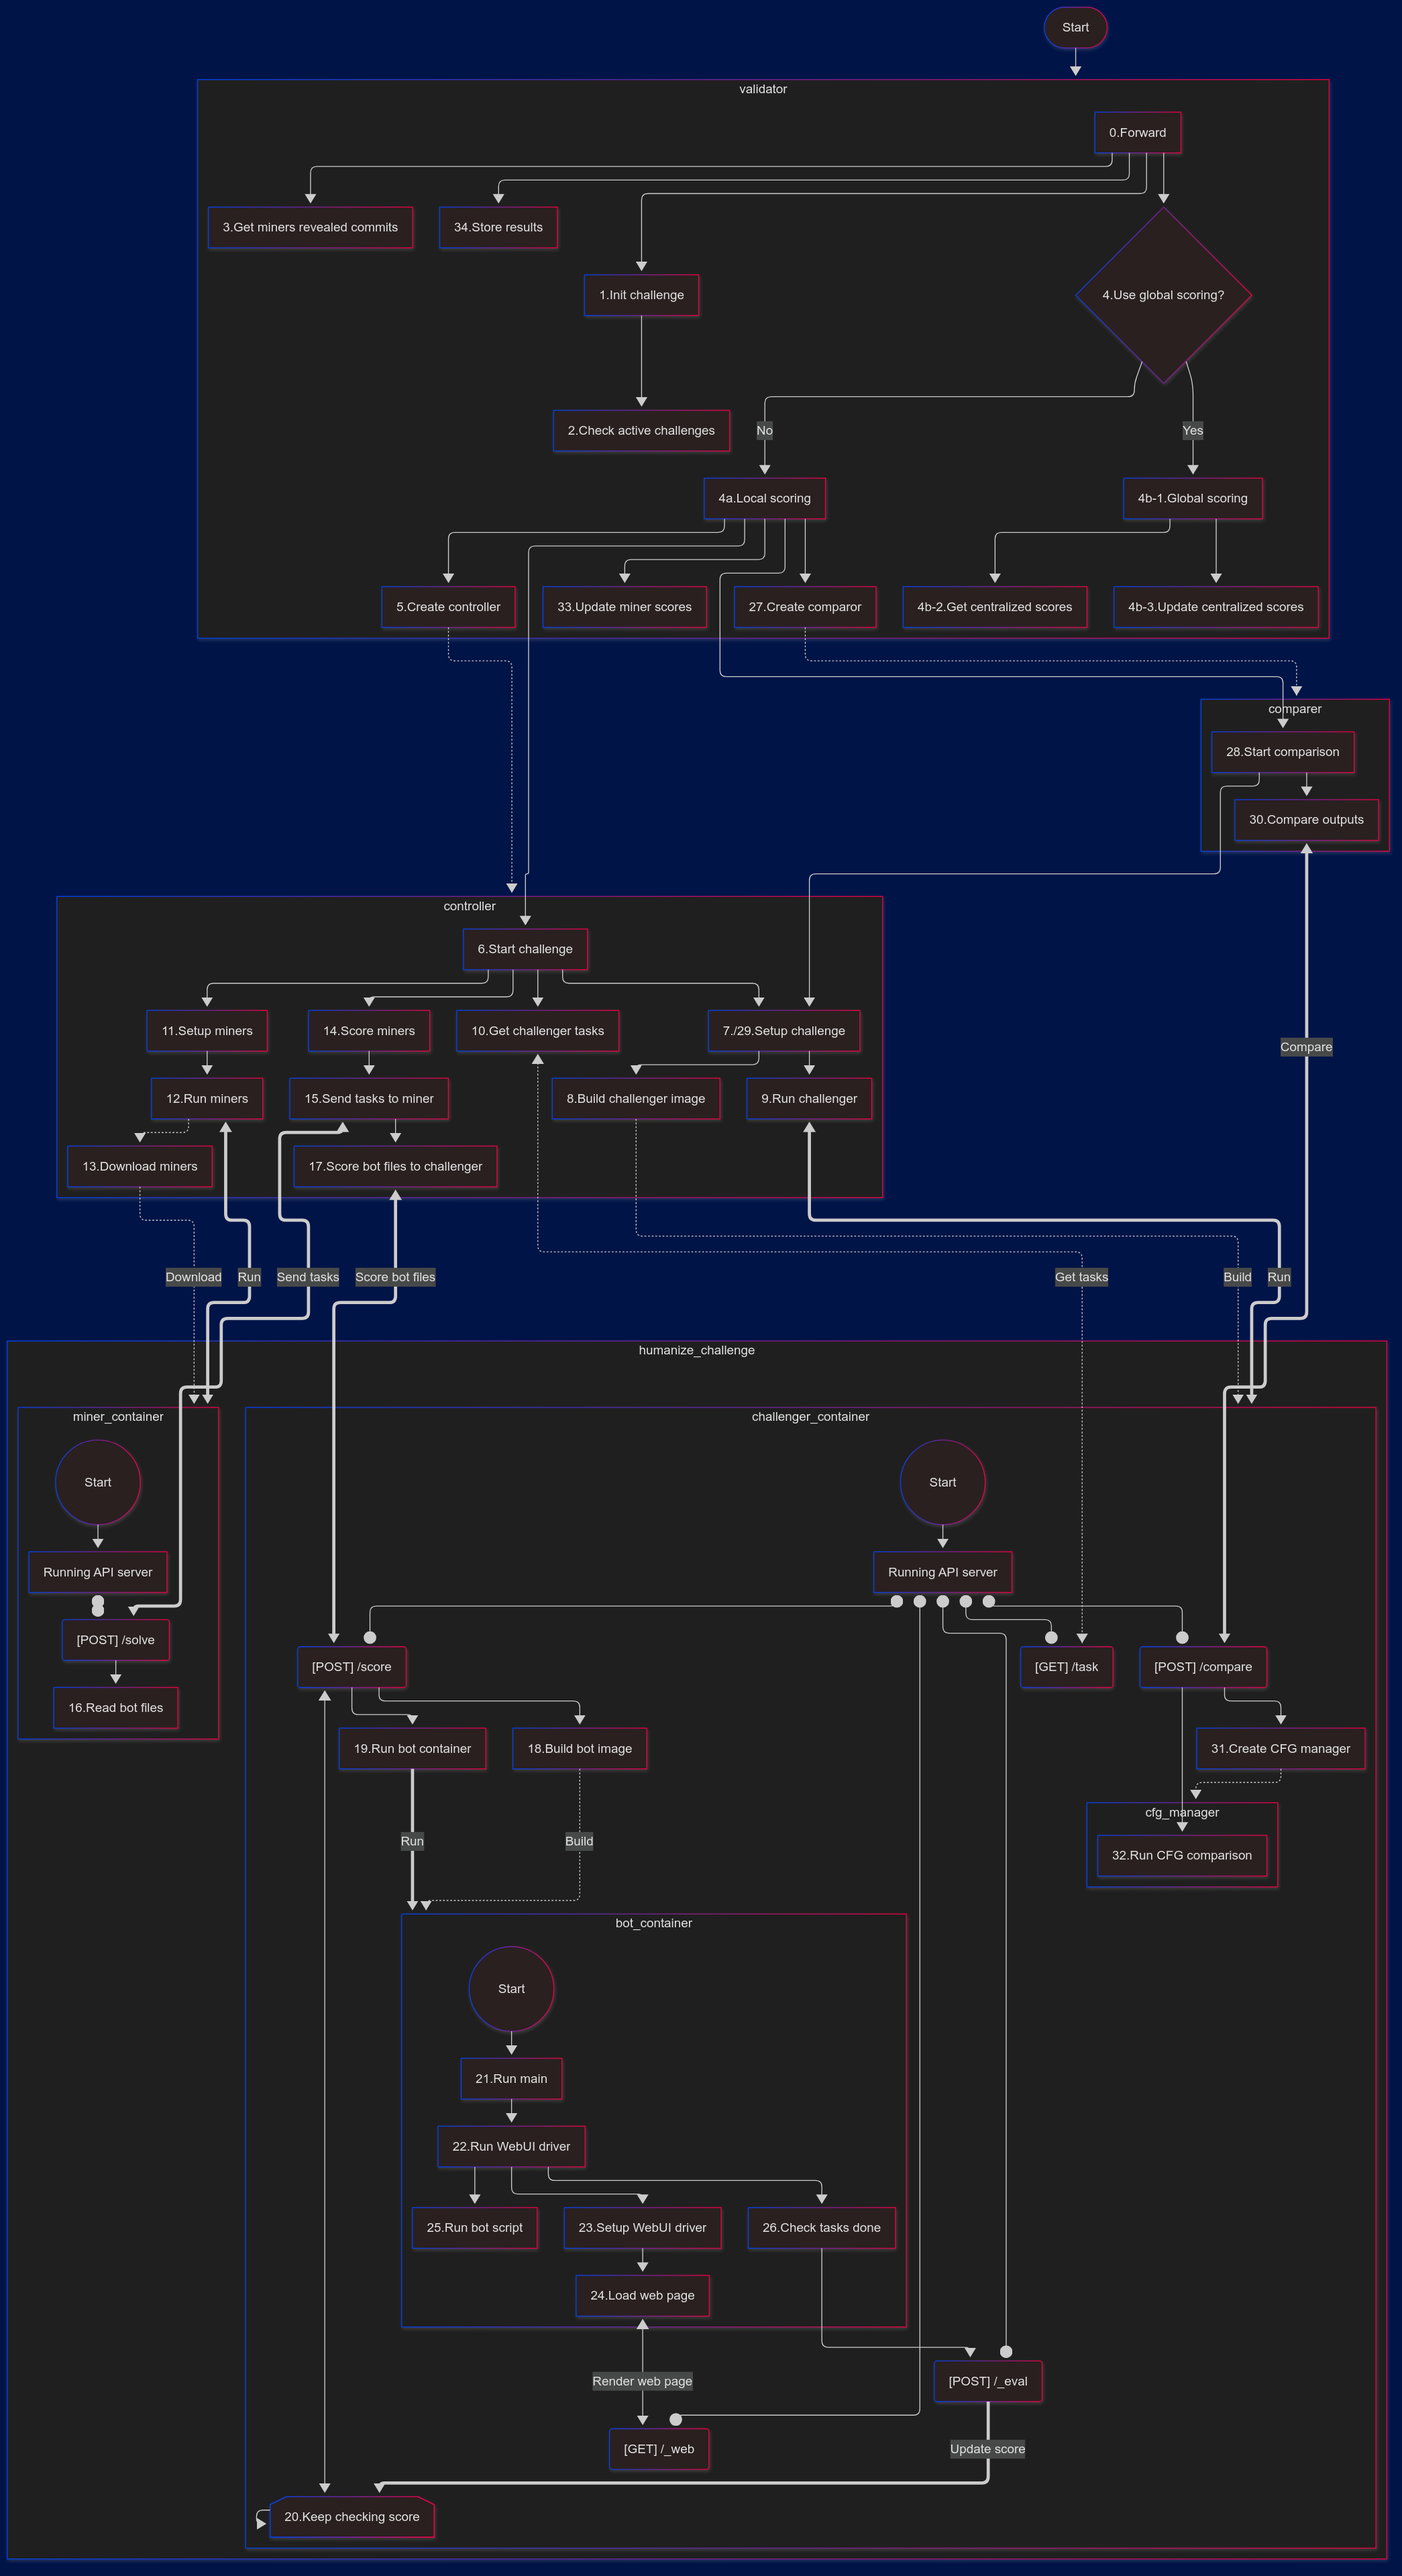
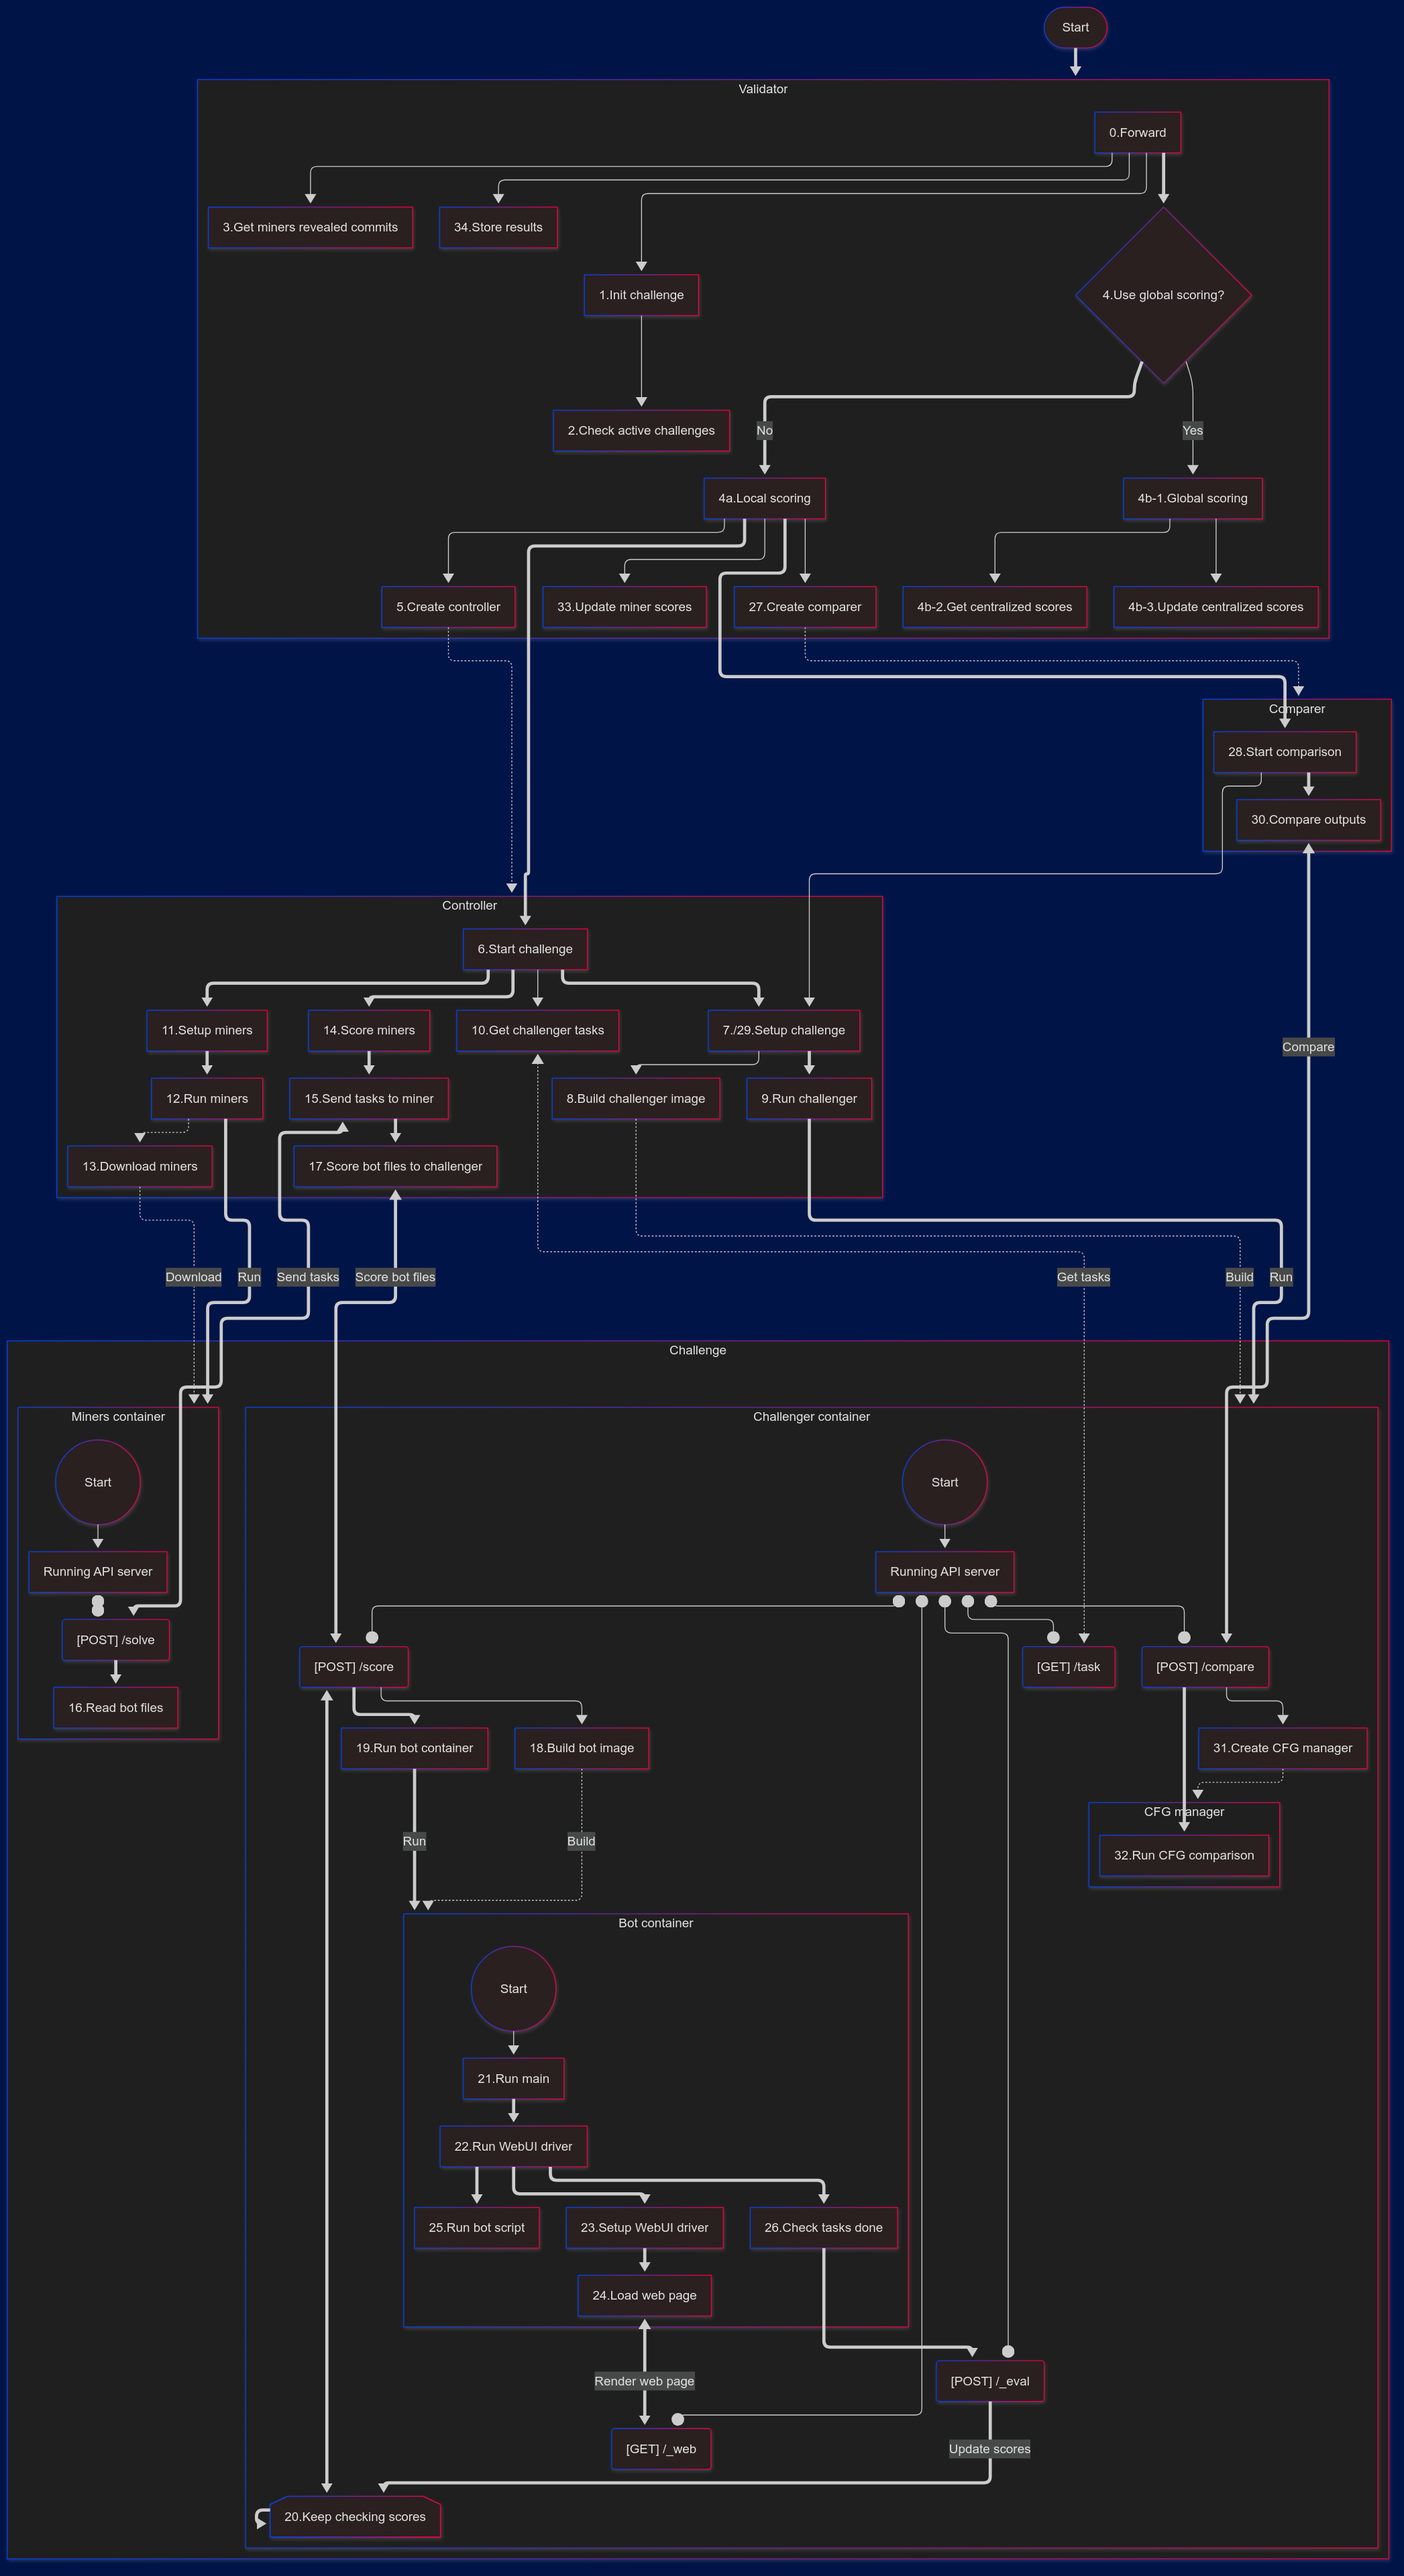
docs: update diagrams and documentation for humanize behavior challenge

diff --git a/docs/diagrams/humanize_behaviour/general.md b/docs/diagrams/humanize_behaviour/general.md
@@ -2,7 +2,7 @@
 
 ```mermaid
 flowchart TD
- subgraph validator["validator"]
+ subgraph validator["Validator"]
         vl_forward["0.Forward"]
         vl_init_challenge["1.Init challenge"]
         vl_check_active_challenges["2.Check active challenges"]
@@ -13,11 +13,11 @@ flowchart TD
         vl_get_centrailized_scores["4b-2.Get centralized scores"]
         vl_update_centrailized_scores["4b-3.Update centralized scores"]
         vl_create_controller["5.Create controller"]
-        vl_create_comparor["27.Create comparor"]
+        vl_create_comparer["27.Create comparer"]
         vl_update_miner_scores["33.Update miner scores"]
         vl_store_miner_results["34.Store results"]
   end
- subgraph controller["controller"]
+ subgraph controller["Controller"]
         start_challenge["6.Start challenge"]
         ct_setup_challenge["7./29.Setup challenge"]
         ct_build_challenger["8.Build challenger image"]
@@ -30,23 +30,23 @@ flowchart TD
         ct_send_tasks_mi["15.Send tasks to miner"]
         ct_send_bot_files["17.Score bot files to challenger"]
   end
- subgraph comparer["comparer"]
+ subgraph comparer["Comparer"]
         start_comparison["28.Start comparison"]
         cm_compare_outputs["30.Compare outputs"]
   end
- subgraph cfg_manager["cfg_manager"]
+ subgraph cfg_manager["CFG manager"]
         run_cfg_comparison["32.Run CFG comparison"]
   end
- subgraph bot_container["bot_container"]
+ subgraph bot_container["Bot container"]
         start_bot_container(("Start"))
         bt_run_main["21.Run main"]
         bot_run_webui_driver["22.Run WebUI driver"]
         bot_setup_driver["23.Setup WebUI driver"]
         bot_load_web_page["24.Load web page"]
-        bot_run_sciprt["25.Run bot script"]
+        bot_run_script["25.Run bot script"]
         bot_check_tasks_done["26.Check tasks done"]
   end
- subgraph challenger_container["challenger_container"]
+ subgraph challenger_container["Challenger container"]
         start_challenger(("Start"))
         ch_server["Running API server"]
         ch_task_endpoint["[GET] /task"]
@@ -56,43 +56,48 @@ flowchart TD
         ch_compare_endpoint["[POST] /compare"]
         ch_build_bot_image["18.Build bot image"]
         ch_run_bot_container["19.Run bot container"]
-        ch_checking_score["20.Keep checking score"]
+        ch_checking_scores["20.Keep checking scores"]
         ch_create_cfg_manager["31.Create CFG manager"]
         cfg_manager
         bot_container
   end
- subgraph miner_container["miner_container"]
+ subgraph miners_container["Miners container"]
         start_miner_container(("Start"))
         mi_server["Running API server"]
         mi_solve_endpoint["[POST] /solve"]
         mi_read_bot_files["16.Read bot files"]
   end
- subgraph humanize_challenge["humanize_challenge"]
+ subgraph hb_challenge["Challenge"]
         challenger_container
-        miner_container
+        miners_container
   end
-    start(["Start"]) --> validator
-    vl_forward --> vl_init_challenge & vl_get_miners_revealed_commits & vl_use_global_scoring & vl_store_miner_results
+    start(["Start"]) ==> validator
+    vl_forward --> vl_init_challenge & vl_get_miners_revealed_commits & vl_store_miner_results
+    vl_forward ==> vl_use_global_scoring
     vl_init_challenge --> vl_check_active_challenges
     vl_use_global_scoring -- Yes --> vl_global_scoring
     vl_global_scoring --> vl_get_centrailized_scores & vl_update_centrailized_scores
-    vl_use_global_scoring -- No --> vl_local_scoring
+    vl_use_global_scoring == No ==> vl_local_scoring
     vl_local_scoring ---> vl_create_controller
     vl_create_controller -.-> controller
-    vl_local_scoring --> start_challenge & vl_create_comparor & start_comparison & vl_update_miner_scores
-    vl_create_comparor -.-> comparer
-    start_comparison --> ct_setup_challenge & cm_compare_outputs
-    start_challenge --> ct_setup_challenge & ct_get_ch_tasks
-    ct_setup_challenge --> ct_build_challenger & ct_run_challenger
-    start_challenge ----> ct_setup_miners & ct_score_miners
-    ct_setup_miners --> ct_run_miners
+    vl_local_scoring ==> start_challenge & start_comparison
+    vl_local_scoring --> vl_create_comparer & vl_update_miner_scores
+    vl_create_comparer -.-> comparer
+    start_comparison --> ct_setup_challenge
+    start_comparison ==> cm_compare_outputs
+    start_challenge ==> ct_setup_challenge
+    start_challenge --> ct_get_ch_tasks
+    ct_setup_challenge --> ct_build_challenger
+    ct_setup_challenge ==> ct_run_challenger
+    start_challenge ====> ct_setup_miners & ct_score_miners
+    ct_setup_miners ==> ct_run_miners
     ct_run_miners -.-> ct_download_miners
-    ct_score_miners --> ct_send_tasks_mi
-    ct_send_tasks_mi --> ct_send_bot_files
+    ct_score_miners ==> ct_send_tasks_mi
+    ct_send_tasks_mi ==> ct_send_bot_files
     ct_build_challenger -. Build .-> challenger_container
-    ct_run_challenger <== Run ==> challenger_container
-    ct_download_miners -. Download .-> miner_container
-    ct_run_miners <== Run =======> miner_container
+    ct_run_challenger == Run ==> challenger_container
+    ct_download_miners -. Download .-> miners_container
+    ct_run_miners == Run =======> miners_container
     ct_get_ch_tasks <-. Get tasks .-> ch_task_endpoint
     ct_send_tasks_mi <== Send tasks ==> mi_solve_endpoint
     ct_send_bot_files <== Score bot files =====> ch_score_endpoint
@@ -100,23 +105,25 @@ flowchart TD
     start_challenger --> ch_server
     ch_server o--o ch_task_endpoint & ch_web_endpoint & ch_eval_endpoint & ch_compare_endpoint
     ch_server o---o ch_score_endpoint
-    ch_score_endpoint --> ch_build_bot_image & ch_run_bot_container
-    ch_score_endpoint <--> ch_checking_score
-    ch_checking_score --> ch_checking_score
+    ch_score_endpoint --> ch_build_bot_image
+    ch_score_endpoint ==> ch_run_bot_container
+    ch_score_endpoint <==> ch_checking_scores
+    ch_checking_scores ==> ch_checking_scores
     ch_run_bot_container == Run =======> bot_container
-    bot_load_web_page <-- Render web page -----> ch_web_endpoint
+    bot_load_web_page <== Render web page =====> ch_web_endpoint
     ch_build_bot_image -. Build .....-> bot_container
-    bot_check_tasks_done --> ch_eval_endpoint
-    ch_eval_endpoint == Update score ==> ch_checking_score
-    ch_compare_endpoint --> ch_create_cfg_manager & run_cfg_comparison
+    bot_check_tasks_done ==> ch_eval_endpoint
+    ch_eval_endpoint == Update scores ==> ch_checking_scores
+    ch_compare_endpoint --> ch_create_cfg_manager
+    ch_compare_endpoint ==> run_cfg_comparison
     ch_create_cfg_manager -.-> cfg_manager
     start_bot_container --> bt_run_main
-    bt_run_main --> bot_run_webui_driver
-    bot_run_webui_driver --> bot_setup_driver & bot_run_sciprt & bot_check_tasks_done
-    bot_setup_driver --> bot_load_web_page
+    bt_run_main ==> bot_run_webui_driver
+    bot_run_webui_driver ==> bot_setup_driver & bot_run_script & bot_check_tasks_done
+    bot_setup_driver ==> bot_load_web_page
     start_miner_container --> mi_server
     mi_server o--o mi_solve_endpoint
-    mi_solve_endpoint --> mi_read_bot_files
+    mi_solve_endpoint ==> mi_read_bot_files
     vl_forward@{ shape: rect}
     vl_init_challenge@{ shape: rect}
     vl_check_active_challenges@{ shape: rect}
@@ -126,7 +133,7 @@ flowchart TD
     vl_get_centrailized_scores@{ shape: rect}
     vl_update_centrailized_scores@{ shape: rect}
     vl_create_controller@{ shape: rect}
-    vl_create_comparor@{ shape: rect}
+    vl_create_comparer@{ shape: rect}
     vl_update_miner_scores@{ shape: rect}
     vl_store_miner_results@{ shape: rect}
     start_challenge@{ shape: rect}
@@ -147,7 +154,7 @@ flowchart TD
     bot_run_webui_driver@{ shape: rect}
     bot_setup_driver@{ shape: rect}
     bot_load_web_page@{ shape: rect}
-    bot_run_sciprt@{ shape: rect}
+    bot_run_script@{ shape: rect}
     bot_check_tasks_done@{ shape: rect}
     ch_server@{ shape: rect}
     ch_task_endpoint@{ shape: rounded}
@@ -157,7 +164,7 @@ flowchart TD
     ch_compare_endpoint@{ shape: rounded}
     ch_build_bot_image@{ shape: rect}
     ch_run_bot_container@{ shape: rect}
-    ch_checking_score@{ shape: notch-pent}
+    ch_checking_scores@{ shape: notch-pent}
     ch_create_cfg_manager@{ shape: rect}
     mi_server@{ shape: rect}
     mi_solve_endpoint@{ shape: rounded}
